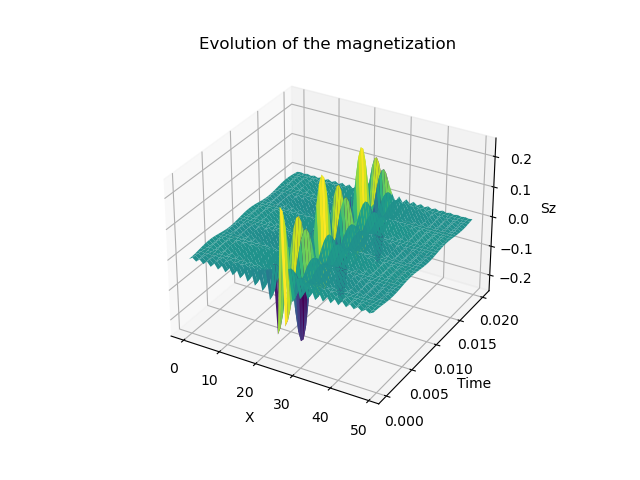
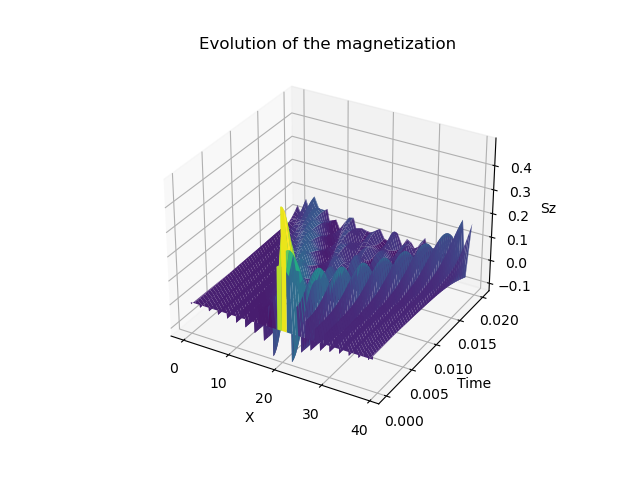
benchmark evolution of magnetization

diff --git a/working_directory/TEBD_usual_notation.py b/working_directory/TEBD_usual_notation.py
@@ -360,16 +360,10 @@ def check_othogonal(MPS):
             infor_string.append('M')
     return ' '.join(infor_string)
 
-def mps_to_tensor_coeff_only_6site(MPS):
-    assert len(MPS) == 6
-    tensor = np.einsum('aij,bjk,ckl,dlm,emn,fno->iabcdefo',MPS[0],MPS[1],MPS[2],MPS[3],MPS[4],MPS[5])
-    # print(tensor.shape)
-    return tensor[0,:,:,:,:,:,:,0]
-
 print("Normalizatin check of Ground state",state_overlap(Gs,Gs))
 
 tau = 0.02
-time_slice = 40
+time_slice = 600
 Measure_Output = np.zeros((time_slice+1,N),dtype=complex)
 
 MPSt = copy.deepcopy(Gs)
@@ -387,31 +381,28 @@ print(
     "#      Time evolution and perform measurement    #\n"
     "##################################################"
 )
+
+
+
+def orthogonize(M,bond_dim):
+    M1 = copy.deepcopy(M)
+    M_mat = np.reshape(M1, (M1.shape[0] * M1.shape[1], M1.shape[2]))
+    A, S, B = np.linalg.svd(M_mat, full_matrices=0)
+    trunc_dim = min(bond_dim, len(S))
+    A = A[:, 0:trunc_dim]
+    S = S[0:trunc_dim]
+    B = B[0:trunc_dim, :]
+    S = np.array(S)/np.sqrt(sum([abs(item)**2 for item in S]))
+    M_mat = np.reshape(A@ np.diag(S) @B, (M1.shape[0] , M1.shape[1], M1.shape[2]))
+    return M_mat
+
 MPSt = move_mix_site(start=1,end=N//2, mix_MPS=MPSt,bond_dim=D)
-MPSt[N//2] = np.einsum("sij,st->tij",MPSt[N//2],Sz)
+MPSt[N//2] = np.einsum("sij,st->tij",MPSt[N//2],Sp)
+MPSt[N//2] = orthogonize(MPSt[N//2],D)
 MPSt = move_mix_site(start=N//2,end=1, mix_MPS=MPSt,bond_dim=D)
 
-# MPS = copy.deepcopy(Gs)
-# MPS[N//2] = np.einsum("sij,st->tij",MPS[N//2],Sz)
-
-
-# print(multi_site_measurement(MPSt,Gs,[Sz],[0]),multi_site_measurement(MPS,Gs,[Sz],[0]))
-# MPSt_ten = mps_to_tensor_coeff_only_6site(MPSt)
-# Gs_ten = mps_to_tensor_coeff_only_6site(Gs)
-# MPS_ten = mps_to_tensor_coeff_only_6site(MPS)
-# print(npla.norm(MPSt_ten-MPS_ten))
-# print(np.einsum('abcdef,al,lbcdef->',MPSt_ten,Sz,Gs_ten),np.einsum('abcdef,al,lbcdef->',MPS_ten,Sz,Gs_ten))
 
 print('############################')
-# before_MPSt = copy.deepcopy(MPSt)
-# before_MPS = copy.deepcopy(MPS)
-# mat_ran = np.random.rand(4,4)
-# mat_ran_inv = np.linalg.inv(mat_ran)
-# MPSt[1] = np.einsum('sij,jl->sil',MPSt[1],mat_ran)
-# MPS[1] = np.einsum('sij,jl->sil',MPS[1],mat_ran)
-# MPSt[2] = np.einsum('sij,ki->skj',MPSt[2],mat_ran_inv)
-# MPS[2] = np.einsum('sij,ki->skj',MPS[2],mat_ran_inv)
-# print(multi_site_measurement(MPSt,Gs,[Sz],[0]),multi_site_measurement(MPS,Gs,[Sz],[0]))
 
 start = perf_counter()
 for i in range(N):
@@ -434,7 +425,7 @@ for t in range(time_slice//2):
         B = np.einsum("ij,sjk->sik",  np.diag(S),B)
         MPSt[i], MPSt[i + 1]  = A,B
     for i in range(N):
-        Measure_Output[t*2+1 , i] = multi_site_measurement(MPSt,Gs,[Sz],[i])
+        Measure_Output[t*2+1 , i] = multi_site_measurement(MPSt,MPSt,[Sz],[i])
     for i in range(N-1,0,-1):
         MM = coarse_grain_MPS(MPSt[i-1], MPSt[i ])
         image = np.einsum("st,sij->tij", Exp_Coupled, MM)
@@ -444,18 +435,10 @@ for t in range(time_slice//2):
         A = np.einsum("sij,jk->sik", A, np.diag(S))
         MPSt[i - 1],MPSt[i ] = A,B
     for i in range(N):
-        Measure_Output[2*t+2 , i] = multi_site_measurement(MPSt,Gs,[Sz],[i])
+        Measure_Output[2*t+2 , i] = multi_site_measurement(MPSt,MPSt,[Sz],[i])
 
 end = perf_counter()
 print('time used in time evolution: {:.2f}s'.format(end-start))
-
-plt.plot(Measure_Output[0],label = "t = 0")
-plt.plot(Measure_Output[1], label = "t = 1")
-# plt.plot(Measure_Output[20], label = "t = 20")
-plt.legend()
-plt.show()
-quit()
-
 X = np.outer(np.linspace(0, N - 1, N), np.ones(time_slice + 1))
 T = np.outer(np.ones(N), np.linspace(0, tau, time_slice + 1))
 SzMatrix = np.transpose(np.array(Measure_Output).real)

diff --git a/working_directory/TEBD_Gamma_Lambda_notation.py b/working_directory/TEBD_Gamma_Lambda_notation.py
@@ -417,7 +417,7 @@ Correlation = [[Expectation(GS, Correlator[n], MPS) for n in range(N)]]
 
 # timestep
 dt = 0.02  # 0.02*600 for total time length
-NT = 600  # number of timesteps
+NT = 100  # number of timesteps
 Skip = 1  # only calculate correlations after this many timesteps
 for i in range(NT):
     print("timestep {} / {}".format(i, NT))
@@ -430,10 +430,15 @@ for i in range(NT):
 
 
 
-plt.plot(SzMatrix[0])
-plt.plot(SzMatrix[1])
-plt.show()
-quit()
+# plt.plot(SzMatrix[0],label = 't = 0')
+# plt.plot(SzMatrix[20], label = 't = 20')
+# plt.plot(SzMatrix[40],label = 't = 40')
+# plt.plot(SzMatrix[60],label = 't = 60')
+# plt.plot(SzMatrix[80],label = 't = 80')
+# plt.plot(SzMatrix[100],label = 't = 100')
+# plt.legend()
+# plt.show()
+# quit()
 
 X = np.outer(np.linspace(0, N - 1, N), np.ones(NT + 1))
 T = np.outer(np.ones(N), np.linspace(0, dt, NT + 1))
@@ -451,7 +456,7 @@ ax.set_xlabel("X")
 ax.set_ylabel("Time")
 ax.set_zlabel("Sz")
 ax.set_title('Evolution of the magnetization')
-fig.savefig("evolution of the magnetization")
+fig.savefig("temp")
 quit()
 # correlation function
 Correlation = np.transpose(np.array(Correlation))
